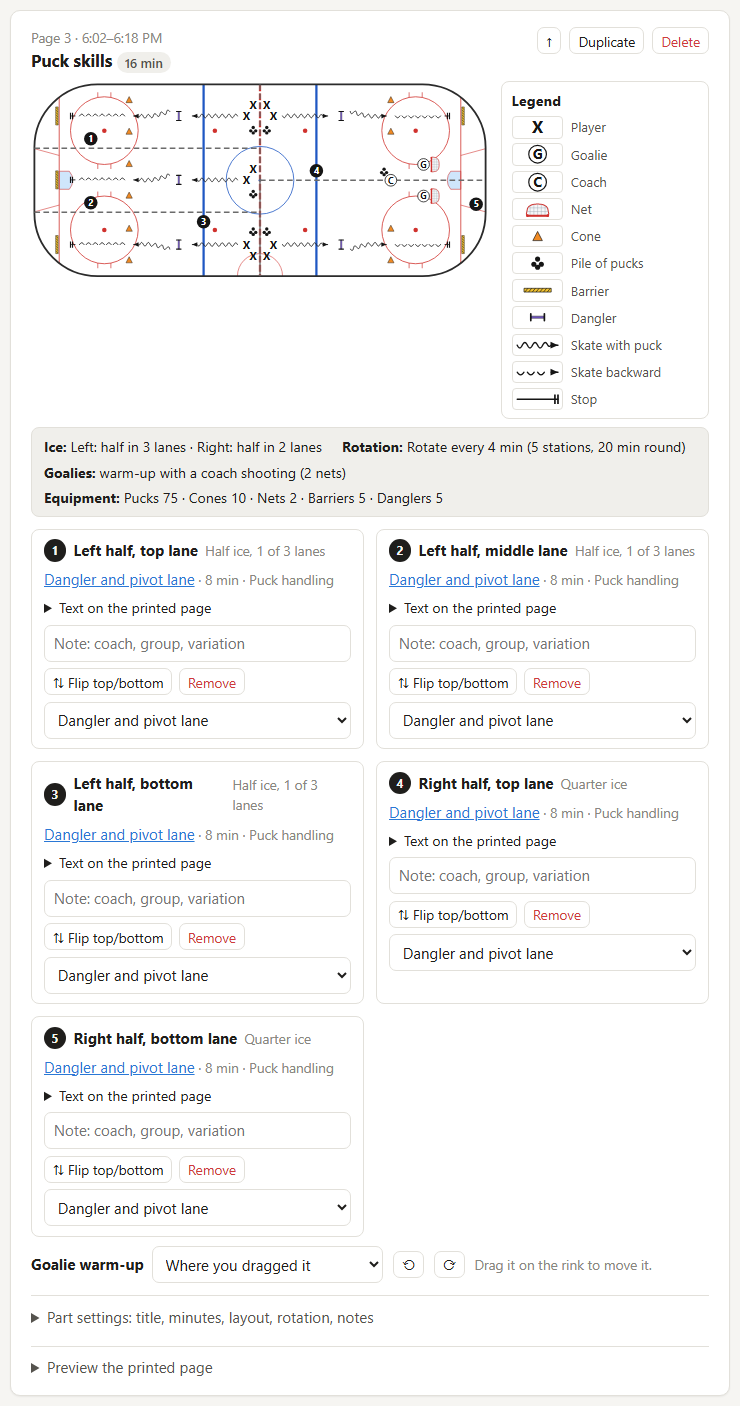
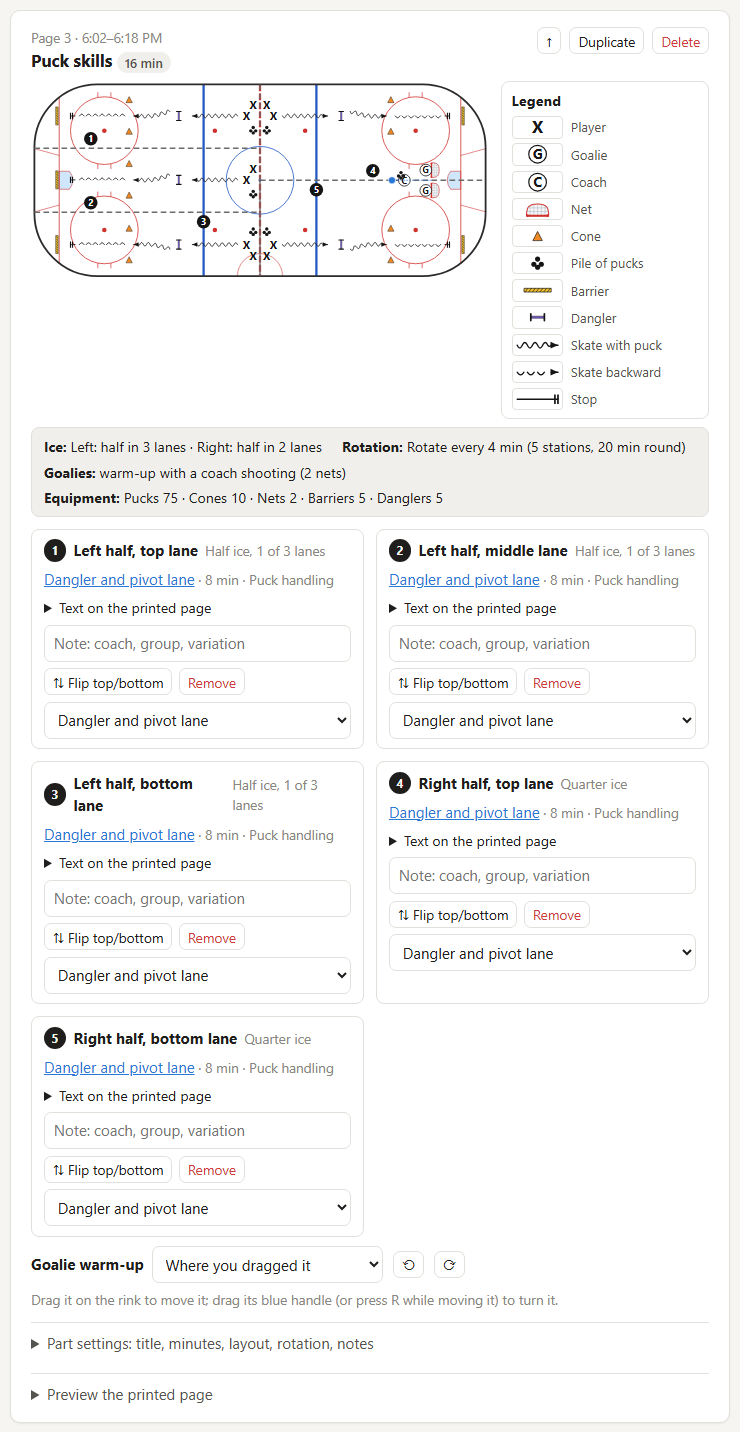
improvements to goalie warmup positioning

diff --git a/crates/server/assets/planner.js b/crates/server/assets/planner.js
@@ -90,9 +90,11 @@ function placeDrill(slot, drillId) {
 
 // ---- Practice builder: moving the goalie warm-up ------------------------------
 //
-// Drag the warm-up (two nets, goalies, coach) anywhere on the part's rink. It
-// follows the pointer with a temporary transform; on release its new spot is
-// posted and the server draws it there.
+// Drag the warm-up (two nets, goalies, coach) anywhere on the part's rink, and
+// turn it: drag its round handle (15° steps, Shift to turn freely), or press
+// R / Shift+R while moving it. It follows the pointer with a temporary
+// transform; on release its new spot and angle are posted and the server
+// draws it there.
 
 let goalieDrag = null;
 
@@ -103,6 +105,15 @@ function rinkPoint(svg, event) {
   return pt.matrixTransform(svg.getScreenCTM().inverse());
 }
 
+function previewGoalies(drag) {
+  const x = Number(drag.spot.dataset.x);
+  const y = Number(drag.spot.dataset.y);
+  drag.spot.setAttribute(
+    "transform",
+    `translate(${drag.dx} ${drag.dy}) rotate(${drag.turn} ${x} ${y})`,
+  );
+}
+
 document.addEventListener("pointerdown", (event) => {
   const spot = event.target.closest && event.target.closest(".board .goalie-spot");
   if (!spot || event.button !== 0 || !spot.closest("[data-goalie-url]")) {
@@ -110,18 +121,39 @@ document.addEventListener("pointerdown", (event) => {
   }
   event.preventDefault();
   const svg = spot.ownerSVGElement;
-  goalieDrag = { spot, svg, start: rinkPoint(svg, event), dx: 0, dy: 0 };
+  const turning = Boolean(event.target.closest(".goalie-rot"));
+  goalieDrag = { spot, svg, start: rinkPoint(svg, event), dx: 0, dy: 0, turn: 0, turning };
   spot.classList.add("dragging");
 });
 
 document.addEventListener("pointermove", (event) => {
-  if (!goalieDrag) {
+  const drag = goalieDrag;
+  if (!drag) {
     return;
   }
-  const p = rinkPoint(goalieDrag.svg, event);
-  goalieDrag.dx = p.x - goalieDrag.start.x;
-  goalieDrag.dy = p.y - goalieDrag.start.y;
-  goalieDrag.spot.setAttribute("transform", `translate(${goalieDrag.dx} ${goalieDrag.dy})`);
+  const p = rinkPoint(drag.svg, event);
+  if (drag.turning) {
+    // Point the warm-up at the pointer.
+    const x = Number(drag.spot.dataset.x);
+    const y = Number(drag.spot.dataset.y);
+    const step = event.shiftKey ? 1 : 15;
+    const angle = (Math.atan2(p.y - y, p.x - x) * 180) / Math.PI;
+    drag.turn = Math.round(angle / step) * step - Number(drag.spot.dataset.rot);
+  } else {
+    drag.dx = p.x - drag.start.x;
+    drag.dy = p.y - drag.start.y;
+  }
+  previewGoalies(drag);
+});
+
+// R / Shift+R turn the warm-up while it's being moved.
+document.addEventListener("keydown", (event) => {
+  if (!goalieDrag || event.key.toLowerCase() !== "r") {
+    return;
+  }
+  event.preventDefault();
+  goalieDrag.turn += event.shiftKey ? -15 : 15;
+  previewGoalies(goalieDrag);
 });
 
 function endGoalieDrag(commit) {
@@ -131,7 +163,9 @@ function endGoalieDrag(commit) {
     return;
   }
   drag.spot.classList.remove("dragging");
-  if (!commit || Math.hypot(drag.dx, drag.dy) < 1) {
+  const moved = Math.hypot(drag.dx, drag.dy) >= 1;
+  const turned = Math.round(drag.turn) % 360 !== 0;
+  if (!commit || (!moved && !turned)) {
     drag.spot.removeAttribute("transform");
     return;
   }
@@ -140,8 +174,9 @@ function endGoalieDrag(commit) {
   const clamp = (v, lo, hi) => Math.min(hi, Math.max(lo, v));
   const x = clamp(Number(drag.spot.dataset.x) + drag.dx, vb.x + 2, vb.x + vb.width - 2);
   const y = clamp(Number(drag.spot.dataset.y) + drag.dy, vb.y + 2, vb.y + vb.height - 2);
+  const rot = Math.round(Number(drag.spot.dataset.rot) + drag.turn);
   const wrap = drag.spot.closest("[data-goalie-url]");
-  postFromBoard(wrap, wrap.dataset.goalieUrl, { x: x.toFixed(1), y: y.toFixed(1) });
+  postFromBoard(wrap, wrap.dataset.goalieUrl, { x: x.toFixed(1), y: y.toFixed(1), rot });
 }
 
 document.addEventListener("pointerup", () => endGoalieDrag(true));

diff --git a/crates/server/assets/app.css b/crates/server/assets/app.css
@@ -1235,6 +1235,29 @@ html:not(.js) .js-only {
   touch-action: none;
 }
 
+/* The turning handle: only shown with JavaScript (it does nothing without). */
+.board .goalie-rot {
+  display: none;
+}
+
+.js .board .goalie-rot {
+  display: inline;
+}
+
+.board .goalie-rot path {
+  stroke: var(--accent);
+  stroke-width: 0.3;
+  stroke-dasharray: 0.8 0.5;
+  pointer-events: none;
+}
+
+.board .goalie-rot circle {
+  fill: var(--accent);
+  stroke: var(--rink-ice);
+  stroke-width: 0.3;
+  cursor: grab;
+}
+
 .board .goalie-spot.dragging {
   cursor: grabbing;
   opacity: 0.75;

diff --git a/crates/server/tests/planner.rs b/crates/server/tests/planner.rs
@@ -555,6 +555,32 @@ async fn goalie_warmup_and_page_preview() {
     let seg = app.st.db(move |db| db.segment(sid)).await.unwrap().unwrap();
     let g = seg.goalies.unwrap();
     assert_eq!((g.x, g.y, g.rot), (60.0, 80.0, 90.0));
+    // Turned while dragging (or by its handle): the angle comes along.
+    let r = app
+        .post(&goalies, &[("x", "60"), ("y", "80"), ("rot", "-30")])
+        .await;
+    assert!(
+        app.get(r.redirect())
+            .await
+            .body
+            .contains("Goalie warm-up turned.")
+    );
+    let r = app
+        .post(&goalies, &[("x", "40"), ("y", "20"), ("rot", "375")])
+        .await;
+    assert!(
+        app.get(r.redirect())
+            .await
+            .body
+            .contains("Goalie warm-up moved.")
+    );
+    let seg = app.st.db(move |db| db.segment(sid)).await.unwrap().unwrap();
+    let g = seg.goalies.unwrap();
+    assert_eq!((g.x, g.y, g.rot), (40.0, 20.0, 15.0));
+    assert!(
+        seg_board(&mut app, pid).await.contains("goalie-rot"),
+        "a turning handle"
+    );
     // Off the half-ice sheet: refused.
     let r = app.post(&goalies, &[("x", "150"), ("y", "40")]).await;
     assert!(app.get(r.redirect()).await.body.contains("practice's ice"));
@@ -572,4 +598,9 @@ async fn goalie_warmup_and_page_preview() {
         .get(&url(&format!("/practices/{pid}/preview/999")))
         .await;
     assert_eq!(missing.status, StatusCode::NOT_FOUND);
+}
+
+/// The builder page's HTML (for checking what the boards draw).
+async fn seg_board(app: &mut TestApp, pid: i64) -> String {
+    app.get(&url(&format!("/practices/{pid}"))).await.body
 }

diff --git a/crates/core/src/practice.rs b/crates/core/src/practice.rs
@@ -202,14 +202,16 @@ impl GoalieWarmup {
                 rot: self.rot,
             }
         };
-        let [px, py] = p((21.0, 4.0));
+        // Compact: nets side by side 9 ft apart, goalies in the crease, the
+        // coach 12 ft out. About 19 × 17 ft in all, so it fits between drills.
+        let [px, py] = p((13.5, 2.5));
         Diagram {
             items: vec![
-                net((0.0, -7.0)),
-                net((0.0, 7.0)),
-                player((3.5, -7.0), "G"),
-                player((3.5, 7.0), "G"),
-                player((18.0, 0.0), "C"),
+                net((0.0, -4.5)),
+                net((0.0, 4.5)),
+                player((2.5, -4.5), "G"),
+                player((2.5, 4.5), "G"),
+                player((12.0, 0.0), "C"),
                 Item::Pucks { x: px, y: py },
             ],
         }
@@ -218,11 +220,17 @@ impl GoalieWarmup {
     /// A rough outline of the warm-up on the rink (for grabbing it on screen).
     pub fn outline(self) -> [[f32; 2]; 4] {
         [
-            self.at(-4.5, -11.5),
-            self.at(24.0, -11.5),
-            self.at(24.0, 11.5),
-            self.at(-4.5, 11.5),
+            self.at(-4.0, -8.5),
+            self.at(15.0, -8.5),
+            self.at(15.0, 8.5),
+            self.at(-4.0, 8.5),
         ]
+    }
+
+    /// Where the turning handle sits: just past the coach, in the direction
+    /// the nets face.
+    pub fn handle(self) -> [f32; 2] {
+        self.at(17.5, 0.0)
     }
 }
 

diff --git a/crates/server/src/routes/segments.rs b/crates/server/src/routes/segments.rs
@@ -243,6 +243,9 @@ struct GoalieForm {
     /// Degrees to turn it by.
     #[serde(default)]
     turn: String,
+    /// The angle it faces after being dragged (degrees); with `x` and `y`.
+    #[serde(default)]
+    rot: String,
 }
 
 /// Place, move, turn or remove the part's goalie warm-up.
@@ -270,9 +273,15 @@ async fn goalies(cx: Ctx, Path(sid): Path<i64>, Form(f): Form<GoalieForm>) -> Ap
         let rot = g.rot + t;
         (Some(GoalieWarmup { rot, ..g }), "Goalie warm-up turned.")
     } else if let (Some(x), Some(y)) = (num(&f.x)?, num(&f.y)?) {
-        // Dragged: a new spot, facing the same way (into the ice for a new one).
-        let rot = current.map_or(if y < 42.5 { 90.0 } else { -90.0 }, |g| g.rot);
-        (Some(GoalieWarmup { x, y, rot }), "Goalie warm-up moved.")
+        // Dragged: a new spot, at the angle it was turned to while dragging,
+        // else facing the same way (into the ice for a new one).
+        let same = current.map_or(if y < 42.5 { 90.0 } else { -90.0 }, |g| g.rot);
+        let rot = num(&f.rot)?.unwrap_or(same);
+        let msg = match current {
+            Some(g) if (g.x, g.y) == (x, y) => "Goalie warm-up turned.",
+            _ => "Goalie warm-up moved.",
+        };
+        (Some(GoalieWarmup { x, y, rot }), msg)
     } else {
         match f.spot.as_str() {
             "" | "none" => (None, "Goalie warm-up removed."),

diff --git a/crates/core/src/board.rs b/crates/core/src/board.rs
@@ -169,8 +169,20 @@ pub fn segment_inner(plan: &Plan, seg: &Segment, interactive: bool) -> String {
                 .collect();
             let _ = write!(
                 out,
-                r#"<polygon class="goalie-hit" points="{}" fill="transparent"><title>Goalie warm-up: drag to move</title></polygon>"#,
+                r#"<polygon class="goalie-hit" points="{}" fill="transparent"><title>Goalie warm-up: drag to move (R turns it while dragging)</title></polygon>"#,
                 pts.join(" ")
+            );
+            // A round handle past the coach: drag it to turn the warm-up.
+            let [hx, hy] = g.handle();
+            let _ = write!(
+                out,
+                r#"<g class="goalie-rot"><path d="M {} {} L {} {}" fill="none"/><circle cx="{}" cy="{}" r="1.6"><title>Drag to turn the goalie warm-up</title></circle></g>"#,
+                n(g.x),
+                n(g.y),
+                n(hx),
+                n(hy),
+                n(hx),
+                n(hy)
             );
         }
         out.push_str("</g>");

diff --git a/crates/server/src/routes/practices.rs b/crates/server/src/routes/practices.rs
@@ -618,7 +618,7 @@ fn goalie_row(cx: &Ctx, plan: &Plan, seg: &Segment) -> Markup {
             @if seg.goalies.is_some() {
                 (turn(-45, "⟲", "Turn left"))
                 (turn(45, "⟳", "Turn right"))
-                span class="muted small js-only" { "Drag it on the rink to move it." }
+                span class="muted small js-only" { "Drag it on the rink to move it; drag its blue handle (or press R while moving it) to turn it." }
             } @else {
                 span class="muted small" { "Two nets with goalies and a coach, out of the drills' way." }
             }

diff --git a/docs/user-guide.md b/docs/user-guide.md
@@ -201,9 +201,16 @@ boards in the neutral zone.
 
 ![The goalie warm-up controls](images/11-goalie-row.png)
 
-Then drag it on the rink to wherever it is out of the way, and turn it with
-⟲ ⟳ so the nets face the right way. Its two nets are added to the equipment,
-and it appears on the printed page.
+It is compact (about 19 × 17 ft), so it fits in a corner or a gap between
+stations. Drag it on the rink to wherever it is out of the way, and turn it so
+the nets face the right way:
+
+- drag the round blue handle just past the coach (it turns in 15° steps; hold
+  Shift to turn freely);
+- or press **R** (Shift+R the other way) while you're dragging it;
+- or use the ⟲ ⟳ buttons (45° at a time).
+
+Its two nets are added to the equipment, and it appears on the printed page.
 
 In "Puck skills" the lanes on the right run along the boards, so the warm-up
 sits in the open strip between them, facing the end boards:
